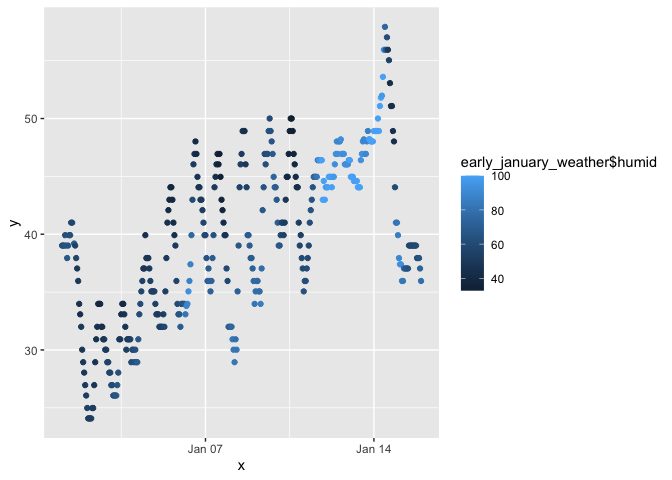
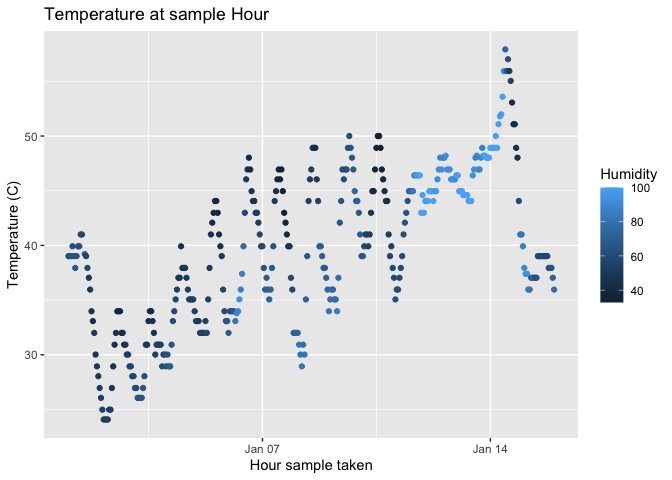
Cleaning up some text, duplicate library call, add labels to plot, replacing $ use with pull

diff --git a/p8105_hw1_jl5934.md b/p8105_hw1_jl5934.md
@@ -1,7 +1,28 @@
 p8105_hw1_jl5934
 ================
 Jesus Luevano
-2023-09-17
+2023-09-18
+
+``` r
+library(moderndive)
+library(tibble)
+library(ggplot2)
+library(tidyverse)
+```
+
+    ## ── Attaching core tidyverse packages ──────────────────────── tidyverse 2.0.0 ──
+    ## ✔ dplyr     1.1.3     ✔ readr     2.1.4
+    ## ✔ forcats   1.0.0     ✔ stringr   1.5.0
+    ## ✔ lubridate 1.9.2     ✔ tidyr     1.3.0
+    ## ✔ purrr     1.0.2     
+    ## ── Conflicts ────────────────────────────────────────── tidyverse_conflicts() ──
+    ## ✖ dplyr::filter() masks stats::filter()
+    ## ✖ dplyr::lag()    masks stats::lag()
+    ## ℹ Use the conflicted package (<http://conflicted.r-lib.org/>) to force all conflicts to become errors
+
+``` r
+data("early_january_weather")
+```
 
 # Problem 1
 
@@ -13,9 +34,10 @@ time_hour.
 
 The size of the dataset is 358 rows by 15 columns.
 
-The samples are all originating from ‘EWR’. during the month of January
-2013. The days range from 1-15, and hours from 0-23 to represent a 24
-hour day.
+The samples are all originating from the site EWR, during the month of
+January 2013. The days range from 1-15, suggesting they were collected
+the first half of the month. The samples hours from 0-23 to represent a
+24 hour day.
 
 The mean temperature of the 385 observations in the dataset is
 39.5821229 degrees Celsius, with a standard deviation of 7.058637
@@ -25,13 +47,17 @@ In addition, the mean dew point of the dataset is 28.057095, mean
 humidity of the dataset is 65.4767039, mean wind speed is 8.2258269,
 mean precipitation is 0.0020391, and mean visbility was 8.5153352.
 
+Because there were ‘NA’ values in both wind gust and pressure, they
+means could not be calculate without dealing with those missing values.
+
 ``` r
 scatter_df <- tibble(
   x = pull(early_january_weather, time_hour),
   y = pull(early_january_weather, temp)
 ) 
 
-ggplot(scatter_df, aes(x = x, y = y, color = early_january_weather$humid)) + geom_point()
+ggplot(scatter_df, aes(x = x, y = y, color = pull(early_january_weather, humid))) + geom_point() + 
+  xlab("Hour sample taken") + ylab("Temperature (C)") + labs(title="Temperature at sample Hour", color = "Humidity")
 ```
 
 ![](p8105_hw1_jl5934_files/figure-gfm/scatterplot-1.png)<!-- -->
@@ -53,11 +79,11 @@ df_2 = tibble(
 )
 ```
 
-## Means of the dataframe
+## Means values from the dataframe
 
-The mean of the random sample of normal distribution is 0.7553357.
+The mean of the random sample of normal distribution is 0.9358885.
 
-The mean of the logical vector is 0.7.
+The mean of the logical vector is 0.8.
 
 The mean of the character vector is NA when attempted via “r
 mean(pull(df_2, char))”
@@ -65,12 +91,12 @@ mean(pull(df_2, char))”
 The mean of the factor vector is NA when attempted via “r
 mean(pull(df_2, factor))”
 
-## Chaging data type
+## Changing data type
 
 ``` r
-df_2$char = as.numeric(as.character(df_2$char))
+df_2$char = as.numeric(as.character(pull(df_2, char)))
 
-df_2$factor =  as.numeric(as.factor(df_2$factor))
+df_2$factor =  as.numeric(as.factor(pull(df_2, factor)))
 ```
 
 When we try to convert the character vector into a numeric one, it is
